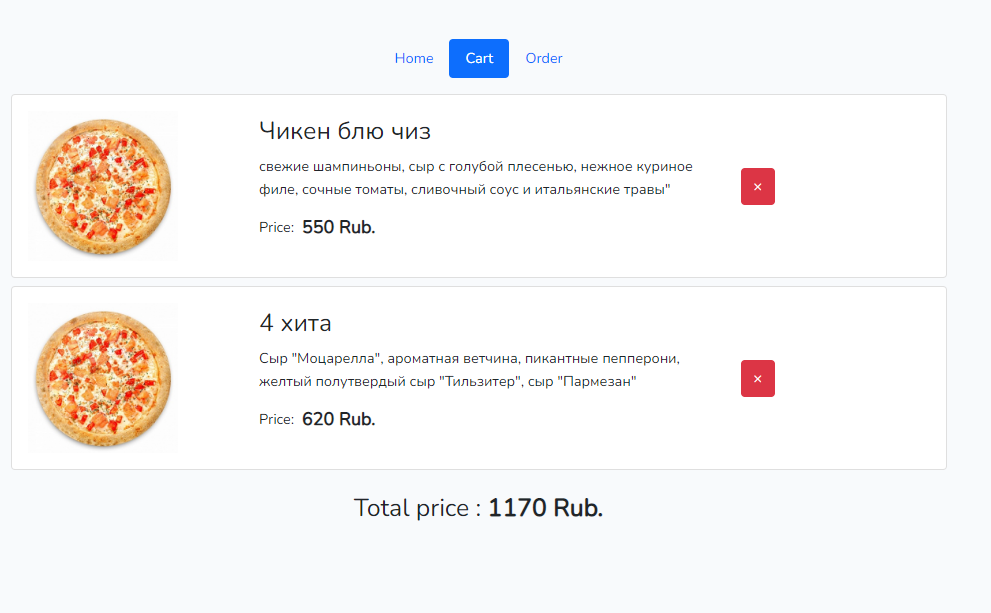
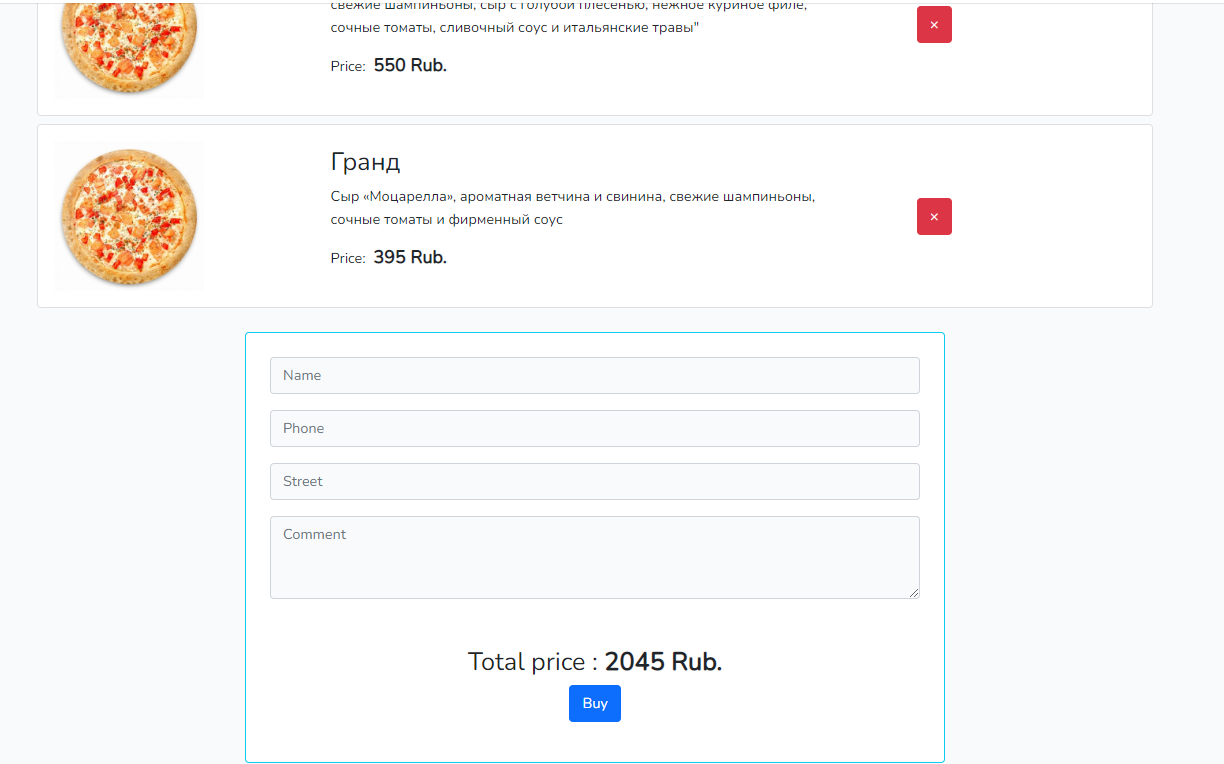
update pizza-site item

diff --git a/dist/pages/index.html b/dist/pages/index.html
@@ -12,7 +12,7 @@ p.item__text
 	| Изучил препроцессор twig. Научился использовать циклы, условия, layout, extends, include, loop.--></ul><h3 class="l-subtitle">Frontend</h3><ul class="skills__items" style="margin-bottom: 40px"><li class="skills__item item"><div class="item__title-wrap"><img class="item__icon" src="../svg/node.svg" alt=""/><span class="item__title">Node.js</span></div><p class="item__text">Изучил язык программирования - Node.js. Научился использовать: path, file system (fs), es6 modules, commonjs modules.</p></li><li class="skills__item item"><div class="item__title-wrap"><img class="item__icon" src="../svg/vue-js.svg" alt=""/><span class="item__title">Vue</span></div><p class="item__text">Изучил прогрессивный JavaScript-фреймворк. Научился работать с классами, событиями, директивами, слотами, миксинами, компонентами, двух-связной привязке к полям ввода.</p></li><li class="skills__item item"><div class="item__title-wrap"><img class="item__icon" src="../svg/vue-js.svg" alt=""/><span class="item__title">Vuex</span></div><p class="item__text">Изучил библиотеку vuex для хранения состояния vue приложения. Изучил getters, dispatch, actions, mutations, modules, а также map helpers (mapGetters, mapActions, mapState, mapMutations) и работу с простраством имен для modules.</p></li><li class="skills__item item"><div class="item__title-wrap"><img class="item__icon" src="../svg/vue-js.svg" alt=""/><span class="item__title">Vue-router</span></div><p class="item__text">Изучил библиотеку vue-router для роутинга и создания SPA. Изучил router-link, router options, programmatic navigation, navigation guards, named routers.</p></li><li class="skills__item item"><div class="item__title-wrap"><img class="item__icon" src="../svg/vuetify.svg" alt=""/><span class="item__title">Vuetify</span></div><p class="item__text">Изучил ui фреймворк для vue приложений. Изучил helper classes, sass variables, components (app, grid, btn, tables, menu, v-text-field, validation, icon, img ...)</p></li><li class="skills__item item"><div class="item__title-wrap"><img class="item__icon" src="../min-img/skills/bootstrap-vue.png" alt=""/><span class="item__title">Bootstrap-vue</span></div><p class="item__text">Изучил vue framework. Научился работать с многочисленными компонентами, иконками.</p></li><li class="skills__item item"><div class="item__title-wrap"><img class="item__icon" src="../svg/vue-js.svg" alt=""/><span class="item__title">Vue экосистема</span></div><p class="item__text">vue cli, vue-i18n, vuelidate,</p></li><li class="skills__item item"><div class="item__title-wrap"><img class="item__icon" src="../svg/js.svg" alt=""/><span class="item__title">Javascript</span></div><p class="item__text">Изучил язык программирования - Javascript. Научился использовать: промисы, fetch, замыкание, символы, модули, strict mode, функции, классы, встроенные объекты, работать с DOM моделью сайта и работой с браузерными объектами (location, Event, localstorage)</p></li><li class="skills__item item"><div class="item__title-wrap"><img class="item__icon" src="../svg/tp.svg" alt=""/><span class="item__title">TypeScript</span></div><p class="item__text">Изучил TypeScript - типизированный js.  Изучил типы, классы, модификаторы,  геттеры/сеттеры, интерфейсы.</p></li><li class="skills__item item"><div class="item__title-wrap"><img class="item__icon" src="../svg/ajax.svg" alt=""/><span class="item__title">AJAX</span></div><p class="item__text">Изучил AJAX - асинхронный JavaScript и XML. Научился работать с сервером: отправлять, получать запросы и обрабатывать их на странице. А также пользоваться библиотекой AXIOS.</p></li><li class="skills__item item"><div class="item__title-wrap"><img class="item__icon" src="../svg/webpack.svg" alt=""/><span class="item__title">Webpack</span></div><p class="item__text">Изучил сборщик проектов webpack<a class="default-link" href="https://github.com/VisualYuki/webpack-config" target="_blank"> Ссылка на репозиторий с конфигом.</a><br>Пытаюсь понять как работает webpack под капотом в браузере (особенно импорты и экпорты). В дальшейшем есть планы посмотреть процесс компиляции на node.js webpack'а.</p></li><li class="skills__item item"><div class="item__title-wrap"><img class="item__icon" src="../svg/testing.svg" alt=""/><span class="item__title">Тестирование (jest)</span></div><p class="item__text">Изучил способы тестирования кода. 1. Jest фрейморк для написания тестов, применил: jsdom - для тестирования DOM, describe, test, except. 2. Хорошо знаю режим разработчика в браузере. 3. Научился тестировать сайты через подключение к телефону(google chrome + android), если баг происходит только на мобильном устройстве.</p></li><li class="skills__item item"><div class="item__title-wrap"><img class="item__icon" src="../svg/comments.svg" alt=""/><span class="item__title">JSDoc/TSDoc</span></div><p class="item__text">Изучил JSDoc/TSDoc - продвинутые js комментарии. Научился комментировать функции. Люблю хорошо документированные проекты, поэтому уделяю большое внимание докуменатции к проектам. Научился создавать документацию по комментариям при помощи tsdoc.</p></li><li class="skills__item item"><div class="item__title-wrap"><img class="item__icon" src="../svg/location.svg" alt=""/><span class="item__title">Yandex map api</span></div><p class="item__text">Изучил api яндекс карта для создания взаимодействия пользователя с картой.</p></li><li class="skills__item item"><div class="item__title-wrap"><img class="item__icon" src="../min-img/skills/nuxt.png" alt=""/><span class="item__title">Nuxt.js</span></div><p class="item__text">В ознакомительных целях.</p></li><li class="skills__item item"><div class="item__title-wrap"><img class="item__icon" src="../min-img/skills/nuxt.png" alt=""/><span class="item__title">Vue-ssr</span></div><p class="item__text">В ознакомительных целях.</p></li><li class="skills__item item"><div class="item__title-wrap"><img class="item__icon" src="../svg/react.svg" alt=""/><span class="item__title">REACT</span></div><p class="item__text">Изучил REACT - js библиотеку для создания UI. Научился работать с JSX, events, conditions, forms, hooks, refs. А также постепенно смотрю, что лежит под капотом react, так как там 3000 строк кода и сразу все не понять.</p></li><li class="skills__item item"><div class="item__title-wrap"><img class="item__icon" src="../svg/redux.svg" alt=""/><span class="item__title">REDUX</span></div><p class="item__text">Изучил REACT - контейнер состояния JS APP. Научился работать: reducers, createStore, action, combineReducers. Полностью прошелся по js коду redux и есть целостное понимание, что лежит под капотом. (Благо там всего 800 строк js кода, без учета JSDoc там получается всегд 500 строк)</p></li></ul><h3 class="l-subtitle">Верстка</h3><ul class="skills__items" style="margin-bottom: 40px"><li class="skills__item item"><div class="item__title-wrap"><img class="item__icon" src="../svg/bootstrap.svg" alt=""/><span class="item__title">Bootstrap</span></div><p class="item__text">Изучил css framework для верстки. Научился работать с компонентами (accordion, breadcrumb, modal, offcanvas, ...), системой сеток, а также подключать только нужные scss и js файлы.</p></li><li class="skills__item item"><div class="item__title-wrap"><img class="item__icon" src="../svg/web.svg" alt=""/><span class="item__title">Верстка</span></div><p class="item__text">Изучил верстку страниц сайта по PSD, Figma макету. Научился верстать адаптивно и кроссбраузерно с применением медиа запросов. Использование семантической верстки для улучшения качества кода.</p></li><li class="skills__item item"><div class="item__title-wrap"><img class="item__icon" src="../svg/gulp.svg" alt=""/><span class="item__title">Gulp</span></div><p class="item__text">Изучил таскранер Gulp. Научился использовать плагины для минификации кода и изображений, сборки файлов, постпроцессоры, сервер проекта, а также линтеры для JS, CSS, PUG.<a class="default-link" href="https://github.com/VisualYuki/Gulp-config" target="_blank"> Ссылка на репозиторий с конфигом.</a></p></li><li class="skills__item item"><div class="item__title-wrap"><img class="item__icon" src="../svg/optimization.svg" alt=""/><span class="item__title">Опт-ция сайта</span></div><p class="item__text">Изучил методы оптимизации сайта. Научился использовать програссивные форматы изображений (webp), ленивую загрузку фото, минимальную вложенность DOM, минификация кода, а также научился работать с панелью разработчика для отслеживания процесса работы сайта. Умею довести баллы сайта по goggle page speed до зеленой зоны.</p></li><li class="skills__item item"><div class="item__title-wrap"><img class="item__icon" src="../svg/jquery.svg" alt=""/><span class="item__title">JQuery</span></div><p class="item__text">Изучил библиотеку для js - JQuery. Научился использовать селекторы, события, методы работы с DOM, эффекты и анимацию.</p></li><li class="skills__item item"><div class="item__title-wrap"><img class="item__icon" src="../svg/html-5.svg" alt=""/><span class="item__title">HTML5</span></div><p class="item__text">Изучил язык гипертекстовой разметки текста - HTML. Научился делать качественную разметку веб-страницы, используя всевозможные тэги и атрибуты.</p></li><li class="skills__item item"><div class="item__title-wrap"><img class="item__icon" src="../svg/css.svg" alt=""/><span class="item__title">CSS3</span></div><p class="item__text">Изучил таблицу каскадных стилей CSS. Научился использовать grid и flex в зависимости от поставленной задачи, а также всевозможные стили.</p></li><li class="skills__item item"><div class="item__title-wrap"><img class="item__icon" src="../svg/sass.svg" alt=""/><span class="item__title">scss/sass/less</span></div><p class="item__text">Изучил CSS препроцессоры. Научился использовать переменные, миксины, вложенность, циклы, импорты для ускорения верстки сайта.</p></li><li class="skills__item item"><div class="item__title-wrap"><img class="item__icon" src="../svg/pug.svg" alt=""/><span class="item__title">Pug</span></div><p class="item__text">Изучил шаблонизатор для html. Научился использовать циклами, переменными, блоками, импортами, инклюдами, миксинами.</p></li><li class="skills__item item"><div class="item__title-wrap"><img class="item__icon" src="../svg/yandex.svg" alt=""/><span class="item__title">БЭМ</span></div><p class="item__text">Изучил методологию верстки - BAM-naming. Научился стандартному наименованию классов и разделению ответственности между блоками, а также конецпции блок, элемент, модификатор.</p></li><li class="skills__item item"><div class="item__title-wrap"><img class="item__icon" src="../svg/email.svg" alt=""/><span class="item__title">MJML</span></div><p class="item__text">Изучил фреймворк для верстки писем. Научился использовать тэгами и стилями.</p><!--Понимаю как верстать письма без фреймворков.--></li><!--li.skills__item.item.item-title
 	img.item__icon(src="../svg/schema.svg" alt="")
 	span.item__title schema.org
-p.item__text Изучил . Научился использовать--></ul><h3 class="l-subtitle">Остальное</h3><ul class="skills__items"><li class="skills__item item"><div class="item__title-wrap"><img class="item__icon" src="../svg/programming.svg" alt=""/><span class="item__title">Программирование</span></div><p class="item__text">Изучил паттерны проектирование. Применил skeleton, chain of responsibility. Изучил принципы программирования DRY(don't reapet yourself), KISS(keep it simple, stupid).</p></li><li class="skills__item item"><div class="item__title-wrap"><img class="item__icon" src="../svg/git.svg" alt=""/><span class="item__title">Git / Github</span></div><p class="item__text">Изучил систему контроля версий. Научился пользоваться git bush для локальной работы с проектом и github для хранния проекта на удаленном сервере, а также коммитить, пушить, мержить, работать с ветками, стэшить и изучил pull request и fetch. Использую gitlab и github</p></li><li class="skills__item item"><div class="item__title-wrap"><img class="item__icon" src="../svg/english-language.svg" alt=""/><span class="item__title">Англ. язык</span></div><p class="item__text">Свободное чтение документаций к плагинам, фреймворкам, а также любая информация в интернете. Документацию стараюсь читать только в оригинале. В планах свободное понимание английской речи в видео.</p></li><li class="skills__item item"><div class="item__title-wrap"><img class="item__icon" src="../min-img/skills/scrum.png" alt=""/><span class="item__title">Agile (scrum)</span></div><p class="item__text">Изучил методологию гибкой разработки.</p></li><li class="skills__item item"><div class="item__title-wrap"><img class="item__icon" src="../svg/skills.svg" alt=""/><span class="item__title">Доп. инструменты</span></div><p class="item__text">Phpstorm, Webstorm, Open Server, VS CODE, FTP, SSH, Yandex map api, С#</p></li></ul></div></section><section class="portfolio section-bottom-margin" id="portfolio"><div class="container"><h2 class="section-title">Портфолио</h2><p style="text-align: center; margin-bottom: 20px;">*указаны, только самые масштабные и крутые проекты, а также pet projects (сверстано около дюжины сайтов)</p><ul class="portfolio__site-items"><li class="portfolio__site-item item" id="vue-social-network"><div class="item__title-wrap"><a class="item__title" href="https://visualyuki.github.io/vue-social-network/dist/index.html" target="_blank">Сайт по продаже пиццы на Laravel + Vue.js (pet project).</a></div><div class="item__desc"><ul><li>Технологии: laravel, apache, mysql, php, vue, vue-router.</li><li>Реализована домашняя страница с пиццами, которые можно добавить в корзину</li><li>Реализована страница корзины с добавленными туда пиццами</li><li>В будущем планируется: добавить страницу заказа + поддержки регистрации.</li><li><a class="default-link" href="https://github.com/VisualYuki/pizza-site" target="_blank"> ссылка на гит </a></li></ul></div><ul class="item__subitems"><li class="item__subitem"><a class="item__subitem-title default-link" href="" target="_blank">Главная страница</a><picture class="item__subitem-picture"><source class="lazyload" srcset="../gifs/preloader.gif" data-srcset="../webp-img/portfolio/pizza-site/home.webp" type="image/webp"/><img class="lazyload" srcset="../gifs/preloader.gif" data-src="../min-img/portfolio/pizza-site/home.png" alt=""/></picture></li><li class="item__subitem"><a class="item__subitem-title default-link" href="" target="_blank">Корзина</a><picture class="item__subitem-picture"><source class="lazyload" srcset="../gifs/preloader.gif" data-srcset="../webp-img/portfolio/pizza-site/cart.webp" type="image/webp"/><img class="lazyload" srcset="../gifs/preloader.gif" data-src="../min-img/portfolio/pizza-site/cart.png" alt=""/></picture></li></ul></li><li class="portfolio__site-item item" id="vue-social-network"><div class="item__title-wrap"><a class="item__title" href="https://visualyuki.github.io/vue-social-network/dist/index.html" target="_blank">Социальная сеть на vue.js (pet project).</a></div><div class="item__desc"><ul><li>Технологии: vuetify, vue-router, vue-cli, typescript, vuex, sass, vue-i18n.</li><li>Поддержка авторизации польователя через localstorage. А также поддержка роутинга при условии авторизации пользователя. При повторном открытии вкладки приложение, авторизованный пользователь сразу получит страницу профиля, иначе страница авторизации.</li><li>Валидация всех форм через vueitfy.</li><li>Поддержка локализации (не везде)</li><li>В планах использовать node.js для хранения данных, вместо localstorage и vuex.</li><li>Код проекта можно посмотреть тут:<a class="default-link" href="https://github.com/VisualYuki/vue-social-network" target="_blank"> ссылка на гит </a></li></ul></div><ul class="item__subitems"><li class="item__subitem"><a class="item__subitem-title default-link" href="https://visualyuki.github.io/vue-social-network/dist/index.html" target="_blank">Регистрация</a><picture class="item__subitem-picture"><source class="lazyload" srcset="../gifs/preloader.gif" data-srcset="../webp-img/portfolio/vue-social-network/registration.webp" type="image/webp"/><img class="lazyload" srcset="../gifs/preloader.gif" data-src="../min-img/portfolio/vue-social-network/registration.png" alt=""/></picture></li><li class="item__subitem"><a class="item__subitem-title default-link" href="https://visualyuki.github.io/vue-social-network/dist/index.html" target="_blank">Авторизация</a><picture class="item__subitem-picture"><source class="lazyload" srcset="../gifs/preloader.gif" data-srcset="../webp-img/portfolio/vue-social-network/auth.webp" type="image/webp"/><img class="lazyload" srcset="../gifs/preloader.gif" data-src="../min-img/portfolio/vue-social-network/auth.png" alt=""/></picture></li><li class="item__subitem"><a class="item__subitem-title default-link" href="https://visualyuki.github.io/vue-social-network/dist/index.html" target="_blank">Профиль</a><picture class="item__subitem-picture"><source class="lazyload" srcset="../gifs/preloader.gif" data-srcset="../webp-img/portfolio/vue-social-network/profile.webp" type="image/webp"/><img class="lazyload" srcset="../gifs/preloader.gif" data-src="../min-img/portfolio/vue-social-network/profile.png" alt=""/></picture></li><li class="item__subitem"><a class="item__subitem-title default-link" href="https://visualyuki.github.io/vue-social-network/dist/index.html" target="_blank">Профиль (мобильная версия)</a><picture class="item__subitem-picture"><source class="lazyload" srcset="../gifs/preloader.gif" data-srcset="../webp-img/portfolio/vue-social-network/mobile-profile.webp" type="image/webp"/><img class="lazyload" srcset="../gifs/preloader.gif" data-src="../min-img/portfolio/vue-social-network/mobile-profile.png" alt=""/></picture></li><li class="item__subitem"><a class="item__subitem-title default-link" href="https://visualyuki.github.io/vue-social-network/dist/index.html" target="_blank">Сообщения</a><picture class="item__subitem-picture"><source class="lazyload" srcset="../gifs/preloader.gif" data-srcset="../webp-img/portfolio/vue-social-network/messenger.webp" type="image/webp"/><img class="lazyload" srcset="../gifs/preloader.gif" data-src="../min-img/portfolio/vue-social-network/messenger.png" alt=""/></picture></li></ul></li><li class="portfolio__site-item item" id="minesweeper"><div class="item__title-wrap"><a class="item__title" href="https://visualyuki.github.io/vue-minesweeper/dist/index.html" target="_blank">Сапер на Vue.js</a></div><div class="item__desc"><ul><li>Игра сапер при использовании данных технологий: vue.js, vue cli, vuex, typescript.</li><li>Код проекта можно посмотреть тут:<a class="default-link" href="https://github.com/VisualYuki/vue-minesweeper" target="_blank"> ссылка на гит </a></li></ul></div><ul class="item__subitems"><li class="item__subitem"><a class="item__subitem-title default-link" href="https://visualyuki.github.io/vue-minesweeper/dist/index.html" target="_blank">Главная страница</a><picture class="item__subitem-picture"><source class="lazyload" srcset="../gifs/preloader.gif" data-srcset="../webp-img/portfolio/minesweeper/index.webp" type="image/webp"/><img class="lazyload" srcset="../gifs/preloader.gif" data-src="../min-img/portfolio/minesweeper/index.png" alt=""/></picture></li></ul></li><li class="portfolio__site-item item" id="custom-jquery"><div class="item__title-wrap"><a class="item__title" href="https://visualyuki.github.io/custom-jquery/dist/index" target="_blank">Собственный jQuery</a></div><div class="item__desc"><ul><li>Реализация частоиспользуемых методов в библиотеке jQuery нативным js (typescript)</li><li>Реализованные методы: <br><code>addClass, removeClass, toggleClass, hasClass, each, on, attr, data, removeData, removeAttr, hide, show, css, val, append, closest, sliblings</code></li><li>Есть сгенерированная документация при помощи tsdoc <br>Посмотреть можно тут:<a class="default-link" href="https://visualyuki.github.io/custom-jquery/docs/classes/jq.html" target="_blank"> ссылка на сайт </a></li><li>Код проекта можно посмотреть тут:<a class="default-link" href="https://github.com/VisualYuki/custom-jquery" target="_blank"> ссылка на гит </a></li><li>Протестировать можно в консоли. Например ввести в консоли: $(".text").removeClass("text")</li><li>Код методов можно посмотреть тут:<a class="default-link" href="https://github.com/VisualYuki/custom-jquery/blob/master/src/js/jquery.ts" target="_blank"> ссылка на гит </a></li><li>Реализовано тестирование методов при помощи ts-jest и jsdom <br>
+p.item__text Изучил . Научился использовать--></ul><h3 class="l-subtitle">Остальное</h3><ul class="skills__items"><li class="skills__item item"><div class="item__title-wrap"><img class="item__icon" src="../svg/programming.svg" alt=""/><span class="item__title">Программирование</span></div><p class="item__text">Изучил паттерны проектирование. Применил skeleton, chain of responsibility. Изучил принципы программирования DRY(don't reapet yourself), KISS(keep it simple, stupid).</p></li><li class="skills__item item"><div class="item__title-wrap"><img class="item__icon" src="../svg/git.svg" alt=""/><span class="item__title">Git / Github</span></div><p class="item__text">Изучил систему контроля версий. Научился пользоваться git bush для локальной работы с проектом и github для хранния проекта на удаленном сервере, а также коммитить, пушить, мержить, работать с ветками, стэшить и изучил pull request и fetch. Использую gitlab и github</p></li><li class="skills__item item"><div class="item__title-wrap"><img class="item__icon" src="../svg/english-language.svg" alt=""/><span class="item__title">Англ. язык</span></div><p class="item__text">Свободное чтение документаций к плагинам, фреймворкам, а также любая информация в интернете. Документацию стараюсь читать только в оригинале. В планах свободное понимание английской речи в видео.</p></li><li class="skills__item item"><div class="item__title-wrap"><img class="item__icon" src="../min-img/skills/scrum.png" alt=""/><span class="item__title">Agile (scrum)</span></div><p class="item__text">Изучил методологию гибкой разработки.</p></li><li class="skills__item item"><div class="item__title-wrap"><img class="item__icon" src="../svg/skills.svg" alt=""/><span class="item__title">Доп. инструменты</span></div><p class="item__text">Phpstorm, Webstorm, Open Server, VS CODE, FTP, SSH, Yandex map api, С#</p></li></ul></div></section><section class="portfolio section-bottom-margin" id="portfolio"><div class="container"><h2 class="section-title">Портфолио</h2><p style="text-align: center; margin-bottom: 20px;">*указаны, только самые масштабные и крутые проекты, а также pet projects (сверстано около дюжины сайтов)</p><ul class="portfolio__site-items"><li class="portfolio__site-item item" id="vue-social-network"><div class="item__title-wrap"><a class="item__title" href="https://visualyuki.github.io/vue-social-network/dist/index.html" target="_blank">Сайт по продаже пиццы на Laravel + Vue.js (pet project).</a></div><div class="item__desc"><ul><li>Технологии: laravel, apache, mysql, php, vue, vue-router.</li><li>Реализована домашняя страница с пиццами, которые можно добавить в корзину</li><li>Реализована страница корзины с добавленными туда пиццами</li><li>Реализована старница заказов для каждого пользователя.</li><li><a class="default-link" href="https://github.com/VisualYuki/pizza-site" target="_blank"> ссылка на гит </a></li></ul></div><ul class="item__subitems"><li class="item__subitem"><a class="item__subitem-title default-link" href="" target="_blank">Главная страница</a><picture class="item__subitem-picture"><source class="lazyload" srcset="../gifs/preloader.gif" data-srcset="../webp-img/portfolio/pizza-site/home.webp" type="image/webp"/><img class="lazyload" srcset="../gifs/preloader.gif" data-src="../min-img/portfolio/pizza-site/home.png" alt=""/></picture></li><li class="item__subitem"><a class="item__subitem-title default-link" href="" target="_blank">Корзина</a><picture class="item__subitem-picture"><source class="lazyload" srcset="../gifs/preloader.gif" data-srcset="../webp-img/portfolio/pizza-site/cart.webp" type="image/webp"/><img class="lazyload" srcset="../gifs/preloader.gif" data-src="../min-img/portfolio/pizza-site/cart.png" alt=""/></picture></li><li class="item__subitem"><a class="item__subitem-title default-link" href="" target="_blank">Заказы</a><picture class="item__subitem-picture"><source class="lazyload" srcset="../gifs/preloader.gif" data-srcset="../webp-img/portfolio/pizza-site/order.webp" type="image/webp"/><img class="lazyload" srcset="../gifs/preloader.gif" data-src="../min-img/portfolio/pizza-site/order.png" alt=""/></picture></li></ul></li><li class="portfolio__site-item item" id="vue-social-network"><div class="item__title-wrap"><a class="item__title" href="https://visualyuki.github.io/vue-social-network/dist/index.html" target="_blank">Социальная сеть на vue.js (pet project).</a></div><div class="item__desc"><ul><li>Технологии: vuetify, vue-router, vue-cli, typescript, vuex, sass, vue-i18n.</li><li>Поддержка авторизации польователя через localstorage. А также поддержка роутинга при условии авторизации пользователя. При повторном открытии вкладки приложение, авторизованный пользователь сразу получит страницу профиля, иначе страница авторизации.</li><li>Валидация всех форм через vueitfy.</li><li>Поддержка локализации (не везде)</li><li>В планах использовать node.js для хранения данных, вместо localstorage и vuex.</li><li>Код проекта можно посмотреть тут:<a class="default-link" href="https://github.com/VisualYuki/vue-social-network" target="_blank"> ссылка на гит </a></li></ul></div><ul class="item__subitems"><li class="item__subitem"><a class="item__subitem-title default-link" href="https://visualyuki.github.io/vue-social-network/dist/index.html" target="_blank">Регистрация</a><picture class="item__subitem-picture"><source class="lazyload" srcset="../gifs/preloader.gif" data-srcset="../webp-img/portfolio/vue-social-network/registration.webp" type="image/webp"/><img class="lazyload" srcset="../gifs/preloader.gif" data-src="../min-img/portfolio/vue-social-network/registration.png" alt=""/></picture></li><li class="item__subitem"><a class="item__subitem-title default-link" href="https://visualyuki.github.io/vue-social-network/dist/index.html" target="_blank">Авторизация</a><picture class="item__subitem-picture"><source class="lazyload" srcset="../gifs/preloader.gif" data-srcset="../webp-img/portfolio/vue-social-network/auth.webp" type="image/webp"/><img class="lazyload" srcset="../gifs/preloader.gif" data-src="../min-img/portfolio/vue-social-network/auth.png" alt=""/></picture></li><li class="item__subitem"><a class="item__subitem-title default-link" href="https://visualyuki.github.io/vue-social-network/dist/index.html" target="_blank">Профиль</a><picture class="item__subitem-picture"><source class="lazyload" srcset="../gifs/preloader.gif" data-srcset="../webp-img/portfolio/vue-social-network/profile.webp" type="image/webp"/><img class="lazyload" srcset="../gifs/preloader.gif" data-src="../min-img/portfolio/vue-social-network/profile.png" alt=""/></picture></li><li class="item__subitem"><a class="item__subitem-title default-link" href="https://visualyuki.github.io/vue-social-network/dist/index.html" target="_blank">Профиль (мобильная версия)</a><picture class="item__subitem-picture"><source class="lazyload" srcset="../gifs/preloader.gif" data-srcset="../webp-img/portfolio/vue-social-network/mobile-profile.webp" type="image/webp"/><img class="lazyload" srcset="../gifs/preloader.gif" data-src="../min-img/portfolio/vue-social-network/mobile-profile.png" alt=""/></picture></li><li class="item__subitem"><a class="item__subitem-title default-link" href="https://visualyuki.github.io/vue-social-network/dist/index.html" target="_blank">Сообщения</a><picture class="item__subitem-picture"><source class="lazyload" srcset="../gifs/preloader.gif" data-srcset="../webp-img/portfolio/vue-social-network/messenger.webp" type="image/webp"/><img class="lazyload" srcset="../gifs/preloader.gif" data-src="../min-img/portfolio/vue-social-network/messenger.png" alt=""/></picture></li></ul></li><li class="portfolio__site-item item" id="minesweeper"><div class="item__title-wrap"><a class="item__title" href="https://visualyuki.github.io/vue-minesweeper/dist/index.html" target="_blank">Сапер на Vue.js</a></div><div class="item__desc"><ul><li>Игра сапер при использовании данных технологий: vue.js, vue cli, vuex, typescript.</li><li>Код проекта можно посмотреть тут:<a class="default-link" href="https://github.com/VisualYuki/vue-minesweeper" target="_blank"> ссылка на гит </a></li></ul></div><ul class="item__subitems"><li class="item__subitem"><a class="item__subitem-title default-link" href="https://visualyuki.github.io/vue-minesweeper/dist/index.html" target="_blank">Главная страница</a><picture class="item__subitem-picture"><source class="lazyload" srcset="../gifs/preloader.gif" data-srcset="../webp-img/portfolio/minesweeper/index.webp" type="image/webp"/><img class="lazyload" srcset="../gifs/preloader.gif" data-src="../min-img/portfolio/minesweeper/index.png" alt=""/></picture></li></ul></li><li class="portfolio__site-item item" id="custom-jquery"><div class="item__title-wrap"><a class="item__title" href="https://visualyuki.github.io/custom-jquery/dist/index" target="_blank">Собственный jQuery</a></div><div class="item__desc"><ul><li>Реализация частоиспользуемых методов в библиотеке jQuery нативным js (typescript)</li><li>Реализованные методы: <br><code>addClass, removeClass, toggleClass, hasClass, each, on, attr, data, removeData, removeAttr, hide, show, css, val, append, closest, sliblings</code></li><li>Есть сгенерированная документация при помощи tsdoc <br>Посмотреть можно тут:<a class="default-link" href="https://visualyuki.github.io/custom-jquery/docs/classes/jq.html" target="_blank"> ссылка на сайт </a></li><li>Код проекта можно посмотреть тут:<a class="default-link" href="https://github.com/VisualYuki/custom-jquery" target="_blank"> ссылка на гит </a></li><li>Протестировать можно в консоли. Например ввести в консоли: $(".text").removeClass("text")</li><li>Код методов можно посмотреть тут:<a class="default-link" href="https://github.com/VisualYuki/custom-jquery/blob/master/src/js/jquery.ts" target="_blank"> ссылка на гит </a></li><li>Реализовано тестирование методов при помощи ts-jest и jsdom <br>
 Код тестов можно посмотреть тут:<a class="default-link" href="https://github.com/VisualYuki/custom-jquery/blob/master/src/js/jquery.test.ts" target="_blank"> ссылка на гит </a></li><li>Реализован паттерн chain of responsibility, поэтому можно писать:<code>$(".text").removeClass(".text").find(".child")</code></li></ul></div><ul class="item__subitems"><li class="item__subitem"><a class="item__subitem-title default-link" href="https://visualyuki.github.io/custom-jquery/dist/index" target="_blank">Главная страница</a><picture class="item__subitem-picture"><source class="lazyload" srcset="../gifs/preloader.gif" data-srcset="../webp-img/portfolio/custom-jquery/index.webp" type="image/webp"/><img class="lazyload" srcset="../gifs/preloader.gif" data-src="../min-img/portfolio/custom-jquery/index.png" alt=""/></picture></li></ul></li><li class="portfolio__site-item item" id="instrument"><div class="item__title-wrap"><a class="item__title" href="https://newlk.vdkanal.ru/" target="_blank">Инструмент</a><img class="item__logo lazyload" src="../gifs/preloader.gif" data-src="../min-img/portfolio/instrument/logo.png" alt="" style="width: 130px;"/></div><div class="item__desc"><ul><li>Задача была переписать весь frontend старого сайта, с новым дизайном.</li><li>Главной задачей заказчика стояла быстрая загрузка сайта, поэтому все страницы находятся в зеленой зоне goggle pagespeed. Использовалась всевозжная оптимизация начиная со шрифтов и заказчивая скриптами.</li><li>А также хорошая масштабируемость и легкая поддержка проекта, поэтому активно использовался бэм и максимальное количество шаблонов, чтобы не нужно было править несколько видов шаблонов.</li><li>Большое количество ajax запросов.</li><li>Yandex map api на странице корзины. По выбору точки доставки (из выпадающего списка) - строиться маршрут, вычисляется цена доставки.</li><li>Было потрачено на весь frontend около 350 часов (работы было очень много)</li></ul></div><ul class="item__subitems"><li class="item__subitem"><a class="item__subitem-title default-link" href="https://instrument.ms/" target="_blank">Главная страница</a><picture class="item__subitem-picture"><source class="lazyload" srcset="../gifs/preloader.gif" data-srcset="../webp-img/portfolio/instrument/index.webp" type="image/webp"/><img class="lazyload" srcset="../gifs/preloader.gif" data-src="../min-img/portfolio/instrument/index.png" alt=""/></picture></li><li class="item__subitem"><a class="item__subitem-title default-link" href="https://instrument.ms/checkout" target="_blank">Корзина</a><picture class="item__subitem-picture"><source class="lazyload" srcset="../gifs/preloader.gif" data-srcset="../webp-img/portfolio/instrument/cart.webp" type="image/webp"/><img class="lazyload" src="../gifs/preloader.gif" data-src="../min-img/portfolio/instrument/cart.png" alt=""/></picture></li><li class="item__subitem"><a class="item__subitem-title default-link" href="https://instrument.ms/ruchnoi-instrument/krepezhnyi-instrument/zaklepochniki-steplery-dyrokoly" target="_blank">Категории</a><picture class="item__subitem-picture"><source class="lazyload" srcset="../gifs/preloader.gif" data-srcset="../webp-img/portfolio/instrument/category.webp" type="image/webp"/><img class="lazyload" src="../gifs/preloader.gif" data-src="../min-img/portfolio/instrument/category.png" alt=""/></picture></li><li class="item__subitem"><a class="item__subitem-title default-link" href="https://instrument.ms/compare/list" target="_blank">Сравнение</a><picture class="item__subitem-picture"><source class="lazyload" srcset="../gifs/preloader.gif" data-srcset="../webp-img/portfolio/instrument/compare.webp" type="image/webp"/><img class="lazyload" src="../gifs/preloader.gif" data-src="../min-img/portfolio/instrument/compare.png" alt=""/></picture></li><li class="item__subitem"><a class="item__subitem-title default-link" href="https://instrument.ms/transportnye-sredstva/kvadrotsikly/tm-irbis/kvadrocikl-irbis-atv-125" target="_blank">Карточка товара</a><picture class="item__subitem-picture"><source class="lazyload" srcset="../gifs/preloader.gif" data-srcset="../webp-img/portfolio/instrument/product.webp" type="image/webp"/><img class="lazyload" src="../gifs/preloader.gif" data-src="../min-img/portfolio/instrument/product.png" alt=""/></picture></li><li class="item__subitem"><a class="item__subitem-title default-link" href="https://instrument.ms/services/moskva/abac" target="_blank">Пункты выдачи</a><picture class="item__subitem-picture"><source class="lazyload" srcset="../gifs/preloader.gif" data-srcset="../webp-img/portfolio/instrument/storage.webp" type="image/webp"/><img class="lazyload" src="../gifs/preloader.gif" data-src="../min-img/portfolio/instrument/storage.png" alt=""/></picture></li><li class="item__subitem"><a class="item__subitem-title default-link" href="https://instrument.ms/reviews" target="_blank">Отзывы о магазине</a><picture class="item__subitem-picture"><source class="lazyload" srcset="../gifs/preloader.gif" data-srcset="../webp-img/portfolio/instrument/shop-reviews.webp" type="image/webp"/><img class="lazyload" src="../gifs/preloader.gif" data-src="../min-img/portfolio/instrument/shop-reviews.png" alt=""/></picture></li><!--li.item__subitema.item__subitem-title.default-link(href="123" target="_blank") 123
 picture.item__subitem-picture
 	source(srcset="../gifs/preloader.gif" data-srcset="../webp-img/portfolio/instrument/123.webp" type="image/webp" class="lazyload")
